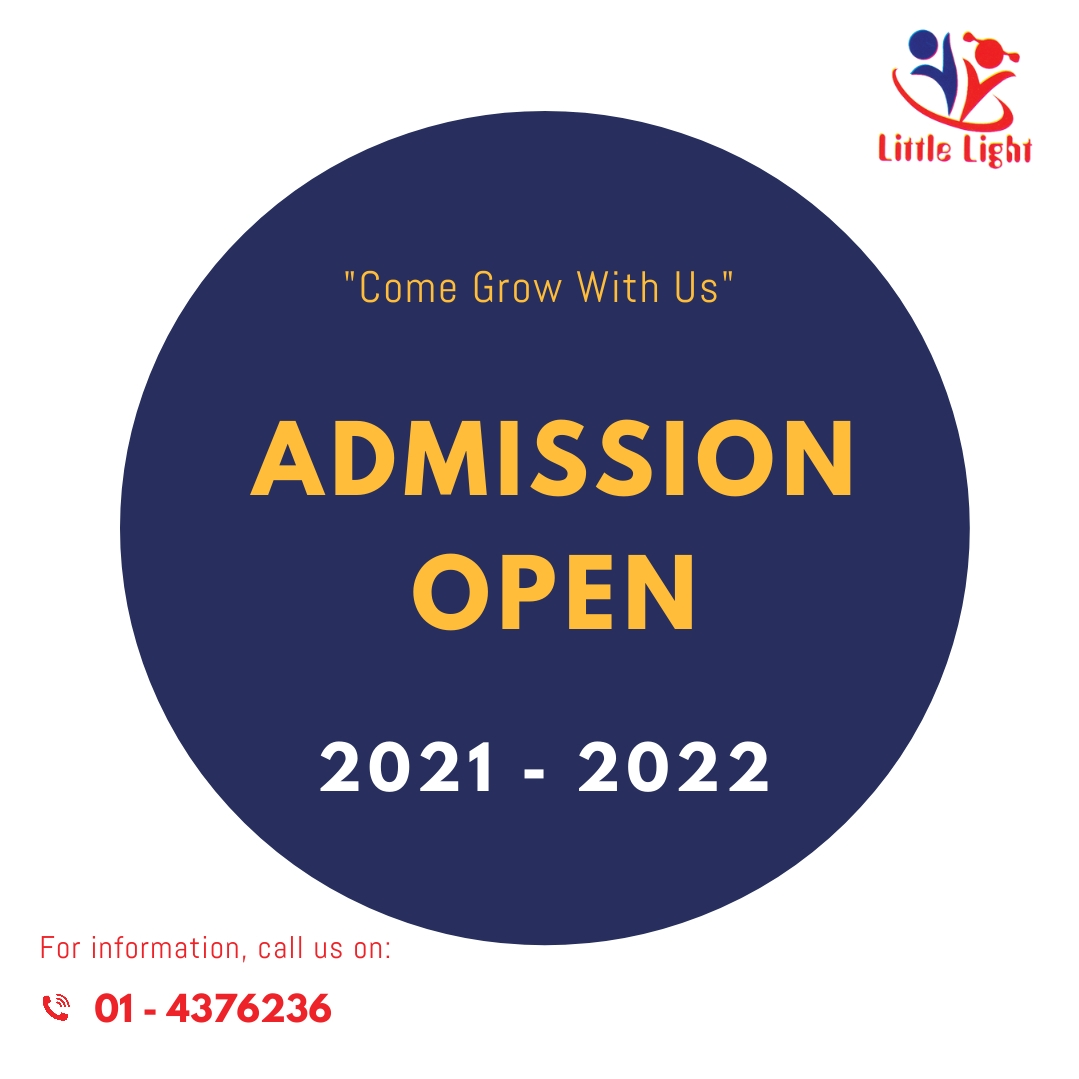
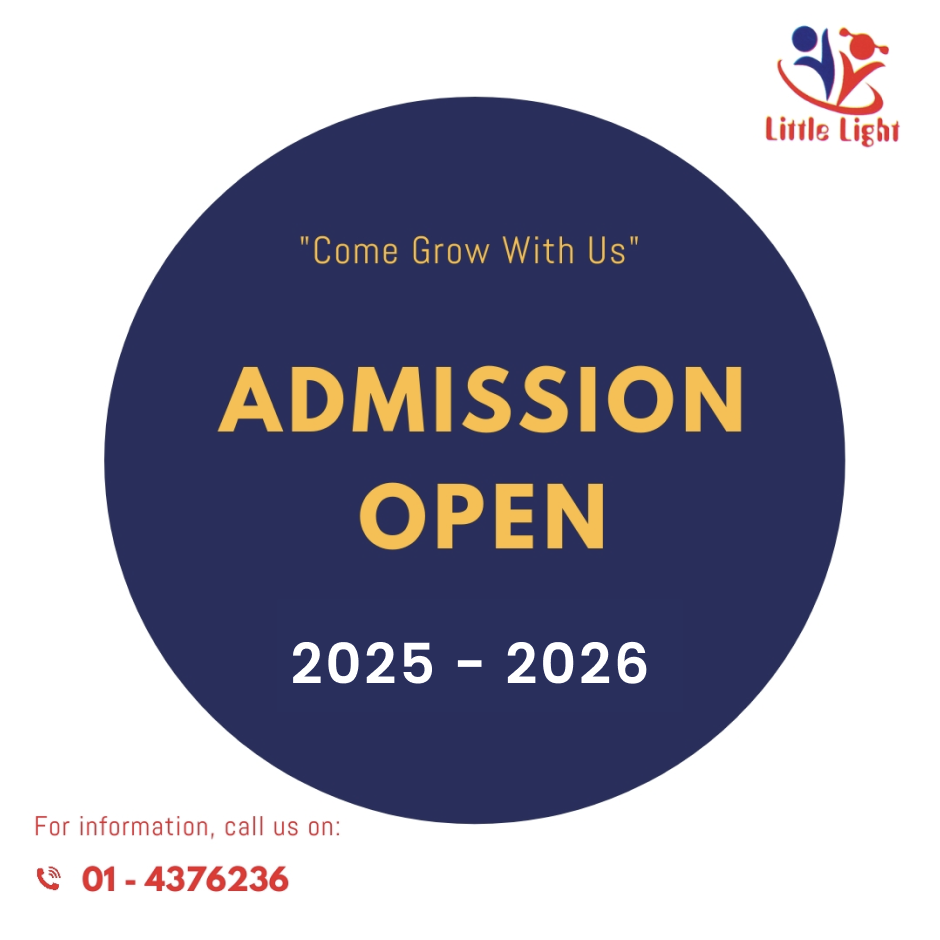
Added admission images

diff --git a/index.html b/index.html
@@ -7,6 +7,14 @@
     <!-- Responsive -->
     <meta http-equiv="X-UA-Compatible" content="IE=edge">
     <meta name="viewport" content="width=device-width, initial-scale=1.0, maximum-scale=1.0, user-scalable=0">
+    <meta property="og:title" content="Little Light Montessori - Admission Open">
+    <meta property="og:description" content="Join Little Light Montessori! Admissions are now open for the 2025 - session. Enroll today!">
+    <meta property="og:image" content="https://littlelightmontessori.edu.np/assets/images/Admission.png">
+    <meta property="og:image:width" content="1200">
+    <meta property="og:image:height" content="630">
+    <meta property="og:url" content="https://littlelightmontessori.edu.np">
+    <meta property="og:type" content="website">
+    <meta property="og:site_name" content="Little Light Montessori">
 
     <link rel="shortcut icon" href="assets/images/favicon.png" type="image/x-icon">
     <link rel="icon" href="assets/images/favicon.png" type="image/x-icon">
@@ -35,7 +43,7 @@
                             We reopened in September with all students welcome to attend school in-person, six full days, and a plan to keep students and faculty safe.
                         </p> -->
 
-                        <img src="./assets/images/Admission.jpg"/>
+                        <img src="assets/images/Admission.png"/>
                     </div>
                 </div>
             </div>
@@ -651,7 +659,7 @@
             keepImg: true,
         });
 
-        // $('#staticBackdrop').modal('show');
+        $('#staticBackdrop').modal('show');
     </script>
 </body>
 

diff --git a/contact.html b/contact.html
@@ -7,6 +7,14 @@
     <!-- Responsive -->
     <meta http-equiv="X-UA-Compatible" content="IE=edge">
     <meta name="viewport" content="width=device-width, initial-scale=1.0, maximum-scale=1.0, user-scalable=0">
+    <meta property="og:title" content="Little Light Montessori - Admission Open">
+    <meta property="og:description" content="Join Little Light Montessori! Admissions are now open for the 2025 - session. Enroll today!">
+    <meta property="og:image" content="https://littlelightmontessori.edu.np/assets/images/Admission.png">
+    <meta property="og:image:width" content="1200">
+    <meta property="og:image:height" content="630">
+    <meta property="og:url" content="https://littlelightmontessori.edu.np">
+    <meta property="og:type" content="website">
+    <meta property="og:site_name" content="Little Light Montessori">
 
     <link rel="shortcut icon" href="assets/images/favicon.png" type="image/x-icon">
     <link rel="icon" href="assets/images/favicon.png" type="image/x-icon">
@@ -14,6 +22,8 @@
     <!-- Stylesheets -->
     <link href="assets/vendor/bootstrap/css/bootstrap.min.css" rel="stylesheet">
     <link href="assets/css/school.css" rel="stylesheet">
+
+
 
 </head>
 
